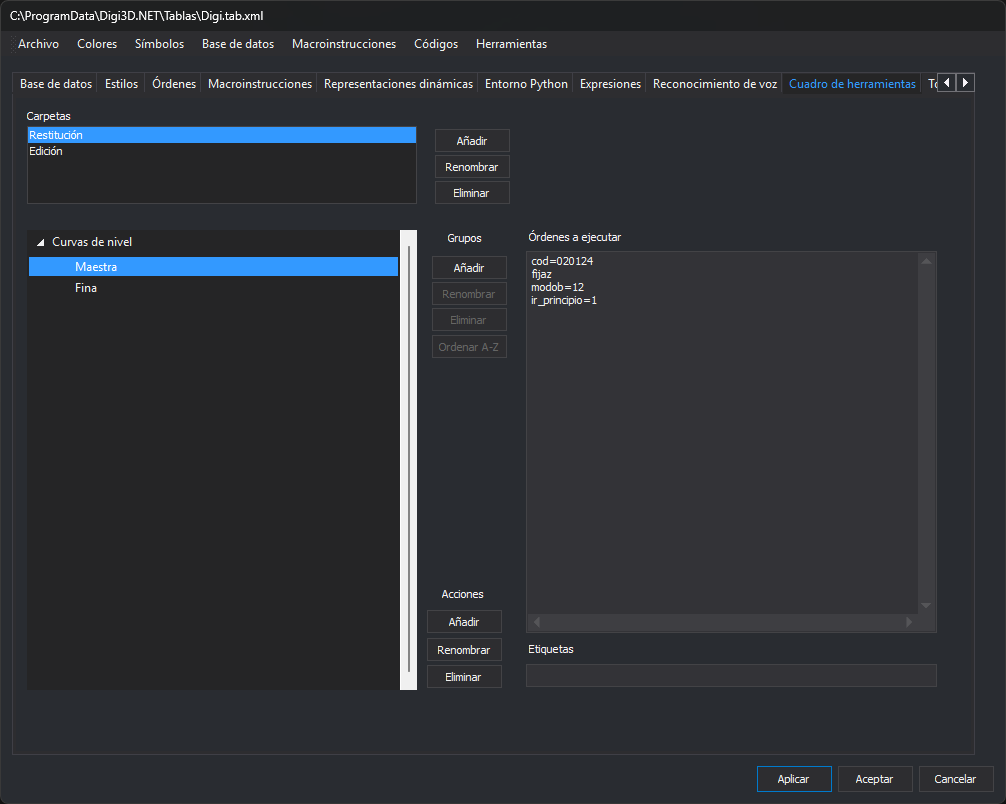
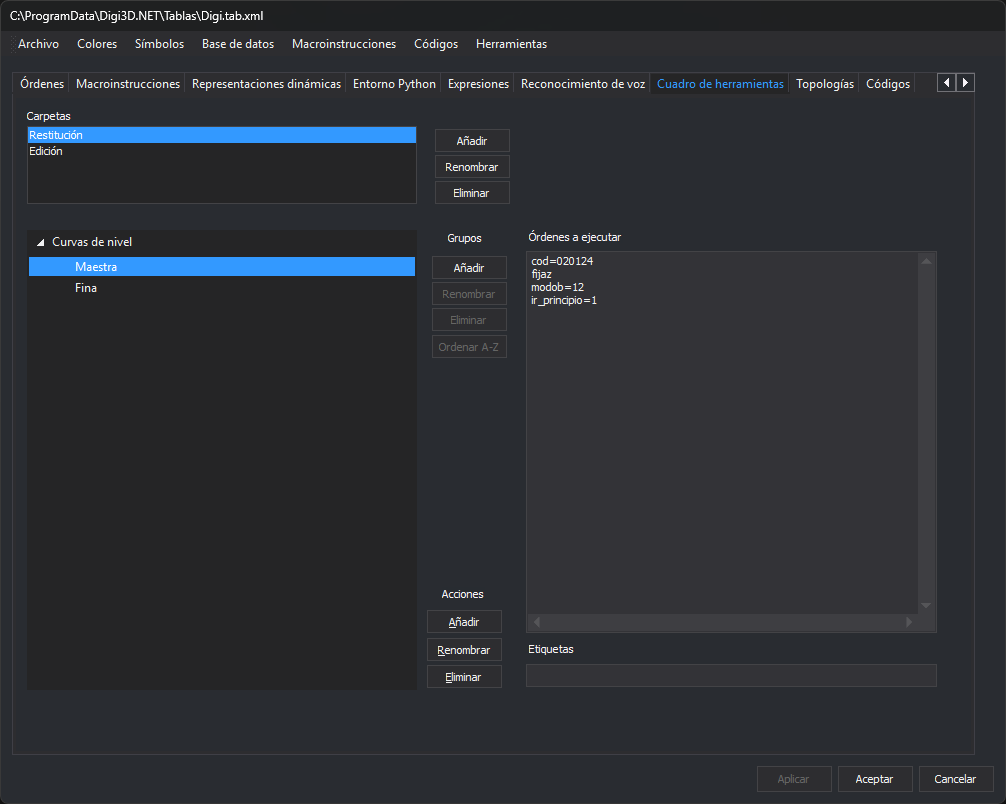
Editor de tablas, pestaña Cuadro de herramientas: captura nueva y botones de Grupos
Renombrar, Eliminar y Ordenar A-Z de Grupos solo se activan con la cabecera del grupo seleccionada. Añadir acción va al final del grupo; renombrar no comprueba duplicados y eliminar no pide confirmación.

Changed region(s): [[0.0, 0.0933, 0.9245, 0.1244], [0.3698, 0.2799, 0.4314, 0.8706], [0.7704, 0.9639, 0.8012, 0.995]]

diff --git a/src/digi3d-ai/referencia/editor-de-tablas-de-codigos/pestanas/cuadro-de-herramientas.md b/src/digi3d-ai/referencia/editor-de-tablas-de-codigos/pestanas/cuadro-de-herramientas.md
@@ -9,31 +9,33 @@ Esta pestaña configura el contenido del panel [Cuadro de herramientas](/digi3d-
 
 * **Carpetas**: lista de carpetas de la tabla de códigos.
 * **Añadir**: pide el nombre de una carpeta nueva. Si ya existe una carpeta con ese nombre, no la añade.
-* **Renombrar**: pide el nombre nuevo de la carpeta seleccionada.
+* **Renombrar**: abre el cuadro **Renombrar carpeta** con el nombre de la carpeta seleccionada.
 * **Eliminar**: elimina la carpeta seleccionada con sus grupos y acciones.
 
 ## Grupos y acciones
 
 El panel de la izquierda muestra los grupos de la carpeta seleccionada y, dentro de cada grupo, sus acciones.
 
-Botones de **Grupos**, que actúan sobre el grupo del elemento seleccionado en el panel:
+Botones de **Grupos**. **Añadir** está disponible con una carpeta seleccionada; **Renombrar**, **Eliminar** y **Ordenar A-Z** solo se activan al seleccionar la cabecera de un grupo, no una de sus acciones:
 
-* **Añadir**: pide el nombre de un grupo nuevo para la carpeta seleccionada. Si la carpeta ya tiene un grupo con ese nombre, no lo añade.
+* **Añadir**: pide el nombre de un grupo nuevo para la carpeta seleccionada. Si la carpeta ya tiene un grupo con ese nombre, sin distinguir mayúsculas de minúsculas, no lo añade.
 * **Renombrar**: abre el cuadro **Renombrar grupo** con el nombre del grupo.
 * **Eliminar**: elimina el grupo con sus acciones.
 * **Ordenar A-Z**: ordena alfabéticamente las acciones del grupo.
 
 Botones de **Acciones**:
 
-* **Añadir**: pide el nombre de una acción nueva para el grupo.
-* **Renombrar**: pide el nombre nuevo de la acción seleccionada.
+* **Añadir**: pide el nombre de una acción nueva y la añade al final del grupo seleccionado o del grupo de la acción seleccionada.
+* **Renombrar**: abre el cuadro **Renombrar acción** con el nombre de la acción seleccionada.
 * **Eliminar**: elimina la acción seleccionada.
+
+Renombrar una carpeta, un grupo o una acción, y añadir una acción, no comprueba si el nombre ya existe. Eliminar no pide confirmación.
 
 ## Órdenes a ejecutar y Etiquetas
 
 Al seleccionar una acción se habilitan dos campos:
 
-* **Órdenes a ejecutar**: órdenes que ejecuta la acción, una por línea.
+* **Órdenes a ejecutar**: órdenes que ejecuta la acción, una por línea. Las líneas vacías se descartan.
 * **Etiquetas**: etiquetas de la acción.
 
 Los cambios de esta pestaña se aplican a la tabla de códigos al pulsar **Aplicar** o **Aceptar**. Si cambias de pestaña, los cambios se conservan sin aplicar. **Cancelar** cierra el editor sin aplicarlos.
